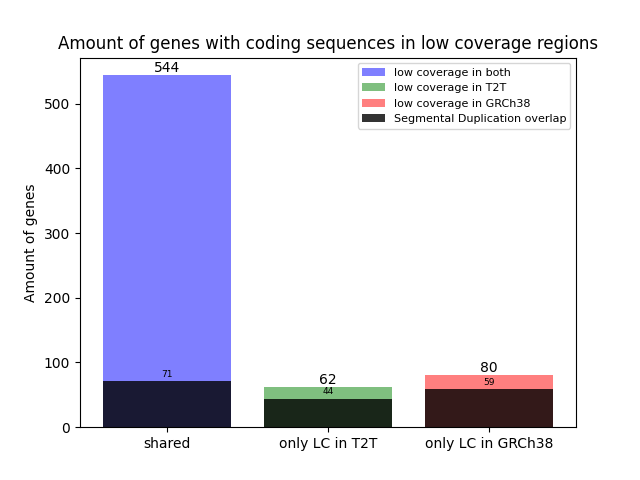
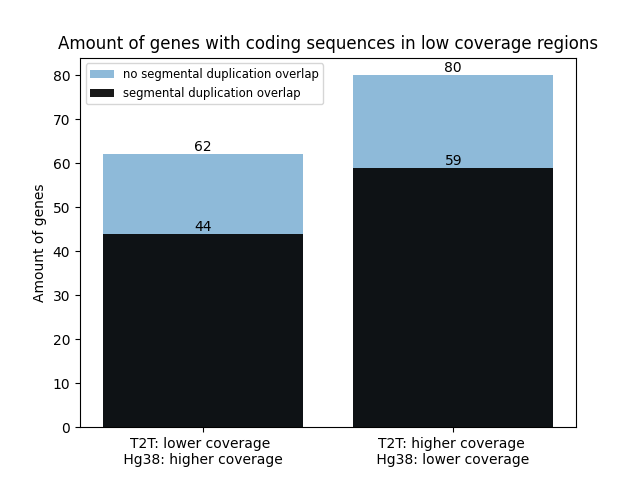
Got rid of the common bar in the low coverage barplot and changed the color of it.
Changed the way the values were summed up since they didn't add the values of the same keys together in multiple_sample_non_syntenic_SV.py

diff --git a/scripts/python/comparing_low_coverage_coding_sequences.py b/scripts/python/comparing_low_coverage_coding_sequences.py
@@ -283,16 +283,14 @@ def compare_with_SD(arguments, t2t_unique_low_coverage_regions_dataframe, GRCh38
 
 
 
-def make_barplot(common_low_coverage_regions_genes_length, t2t_unique_low_coverage_regions_length,
+def make_barplot(t2t_unique_low_coverage_regions_length,
                  GRCh38_unique_low_coverage_regions_length, filtered_t2t_dataframe_length,
-                 filtered_hg38_dataframe_length, unique_common_SD_overlap_genes):
+                 filtered_hg38_dataframe_length):
     """
     This function makes the barplot where the length of the lists made in the previous function are plotted against
     each other.
 
     :param:
-        common_low_coverage_regions_genes_length (int): integer showing the amount ofe gene_ids which have
-        coding sequences in low coverage regions in both T2T and GRCh38.
         t2t_unique_low_coverage_regions_length (int): integer showing gene_ids with coding sequences located
         exclusively in low coverage regions of T2T.
         GRCh38_unique_low_coverage_regions_length (int): integer showing gene_ids with coding sequences located
@@ -301,9 +299,6 @@ def make_barplot(common_low_coverage_regions_genes_length, t2t_unique_low_covera
         coding sequences and segmental duplications in the T2T reference genome.
         filtered_hg38_dataframe_length (int): integer showing the amount of gene_ids which have low coverage regions in
         coding sequences and segmental duplications in the GRCh38 reference genome.
-        unique_common_SD_overlap_gen (int): integer showing the amount of gene_ids which have low coverage regions
-        located in coding sequences and segmental duplications in both reference genomes.
-
 
     :return:
         The barplot is saved as Coding_Sequences_in_low_coverage_regions.png
@@ -317,23 +312,22 @@ def make_barplot(common_low_coverage_regions_genes_length, t2t_unique_low_covera
     fig, ax = plt.subplots()
 
     # The labels for the x and the legend
-    xlables = ["shared", "only LC in T2T", "only LC in GRCh38"]
-    labels = ["low coverage in both", "low coverage in T2T", "low coverage in GRCh38"]
+    xlables = ["T2T: lower coverage \n Hg38: higher coverage ", "T2T: higher coverage \n Hg38: lower coverage "]
+
 
     # Makes the barplot that shows the amount of genes which have a coding sequence overlap with a low coverage region
     bars = ax.bar(xlables,
-                  [common_low_coverage_regions_genes_length,
-                   t2t_unique_low_coverage_regions_length,
+                  [t2t_unique_low_coverage_regions_length,
                    GRCh38_unique_low_coverage_regions_length],
-                  color=["blue", "green", "red"],
                   alpha=0.5,
-                  label=labels)
+                  label="no segmental duplication overlap",
+                  )
 
     # Makes an additional barplot containing the amount of genes whose low coverage coding sequence overlap with a
     # segmental duplication
-    SD_bars = ax.bar(xlables, [unique_common_SD_overlap_genes, filtered_t2t_dataframe_length,
-                     filtered_hg38_dataframe_length], color=["black", "black", "black"], alpha=0.8,
-                     label="Segmental Duplication overlap")
+    SD_bars = ax.bar(xlables, [filtered_t2t_dataframe_length,
+                     filtered_hg38_dataframe_length], color=["black", "black"], alpha=0.9,
+                     label="segmental duplication overlap")
 
     # Adds amount of total genes per category to their respective bar plots by calculating the midpoint of each bar and
     # placing the values there.
@@ -356,15 +350,14 @@ def make_barplot(common_low_coverage_regions_genes_length, t2t_unique_low_covera
                     xytext=(0, 5),
                     textcoords="offset points",
                     ha="center",
-                    va="center",
-                    fontsize=6.5)
+                    va="center")
 
     # Makes and sets the y_label
     ax.set_ylabel("Amount of genes")
 
     # Makes and sets the title
     plt.title("Amount of genes with coding sequences in low coverage regions")
-    plt.legend(fontsize=8)
+    plt.legend(fontsize="small")
 
     # Saves the barplot into a png file
     plt.savefig("Coding_Sequences_in_low_coverage_regions.png")
@@ -429,12 +422,12 @@ def main(args):
                                                                                 GRCh38_unique_dataframe,
                                                                                 common_dataframe)
 
-    make_barplot(common_genes_length,
+    make_barplot(
                  t2t_unique_length,
                  GRCh38_unique_length,
                  filtered_t2t_dataframe_length,
                  filtered_hg38_dataframe_length,
-                 unique_common_SD_overlap_genes)
+                 )
 
     write_to_file(args,
                   common_genes,

diff --git a/scripts/python/multiple_sample_non_syntenic_SV.py b/scripts/python/multiple_sample_non_syntenic_SV.py
@@ -54,11 +54,19 @@ def plotting_SV_occurences(list_INS, list_DEL):
     # Sets the size of the figure
     plt.rcParams["figure.figsize"] = [18, 12]
 
+    del_values = []
+    ins_values = []
+
+    del_dict = {item[0]: int(item[1]) for item in list_DEL}
+    ins_dict = {item[0]: int(item[1]) for item in list_INS}
+
     # Sets the sample names as set keys to compare the deletion and insertion values by looping through the respective
     # indel list and take the value corresponding to the key (sample name)
-    keys = [item[0] for item in list_INS]
-    del_values = [int(item[1]) for item in list_DEL]
-    ins_values = [int(item[1]) for item in list_INS]
+    for key in del_dict.keys():
+        if key in ins_dict:
+            del_values.append(del_dict[key])
+            ins_values.append(ins_dict[key])
+            # Perform your comparison or any other operation here
 
     # Sum the values of identical keys to calculate totals for sorting
     total_values = [del_values[i] + ins_values[i] for i in range(len(del_values))]
@@ -66,7 +74,7 @@ def plotting_SV_occurences(list_INS, list_DEL):
     # Sort the data by total values by combining the total_values, keys, del values and ins values lists into tuples
     # which contains one element from each list on the same position. Then sort the tuples based on the first element
     # of each tuple (total_values) and then unpack the tuples into separate lists
-    sorted_data = sorted(zip(total_values, keys, del_values, ins_values), reverse=True)
+    sorted_data = sorted(zip(total_values, del_dict.keys(), del_values, ins_values), reverse=True)
     sorted_total, sorted_keys, sorted_del_values, sorted_ins_values = zip(*sorted_data)
 
     # Creates the stacked bar chart
@@ -75,11 +83,11 @@ def plotting_SV_occurences(list_INS, list_DEL):
 
     # Creates the y-label, change the size and rotation of the sample names, change the size of the numbers and creates
     # the legend and title
-    plt.ylabel("Amount of non-syntenic structural variants", fontsize=18)
+    plt.ylabel("Amount of structural variants", fontsize=18)
     plt.xticks(fontsize=12, rotation=80)
     plt.yticks(fontsize=17)
     plt.legend(loc="upper right", fontsize=15)
-    plt.title("Amount of non syntenic structural variation per sample", fontsize=20)
+    plt.title("Total amount of CDS overlapping non-syntenic structural variants per sample", fontsize=20)
 
     # plt.show(bbox_inches='tight')
 
